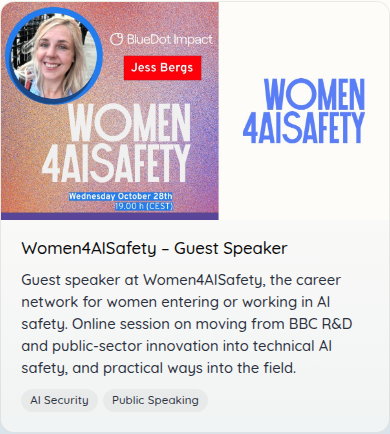
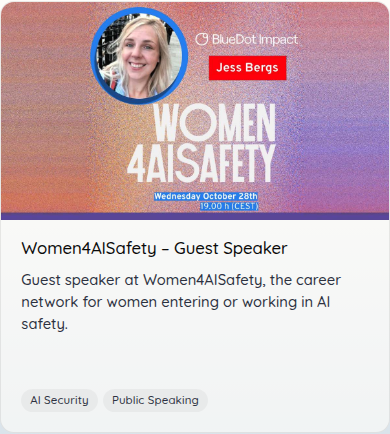
content: extend the graphic's background across the Women4AISafety tile
Replaces the wordmark-on-cream split: the event graphic is centred and its speckled gradient and purple strip are continued sideways to fill 16:9, so the W4AIS wordmark appears once.

diff --git a/docs/assets/women4aisafety-tile-candidates/make_tiles.py b/docs/assets/women4aisafety-tile-candidates/make_tiles.py
@@ -3,10 +3,17 @@
 
 usage: uv run --with pillow python -I make_tiles.py <screenshot.png>
 
-The screenshot is the 1142x1432 LinkedIn post; GRAPHIC is the event graphic
-inside it. Every candidate is 1200x675 and capped at 150 KB. The live tile is
-written to public/images/women4aisafety-2026.jpg.
+The screenshot is the 1142x1432 LinkedIn post; GRAPHIC is the square event
+graphic inside it. The tile is 16:9, so the graphic's speckled gradient
+background and purple base strip are extended sideways: each extra pixel is a
+copy of a random pixel from a content-free sliver at the nearest edge of the
+graphic, taken from a nearby row (within JITTER rows, never across the strip
+edge). That keeps the gradient, the speckle and the strip continuous without a
+visible seam, and without the row banding that pure per-column copying gives.
+Every candidate is 1200x675 and capped at 150 KB. The live tile is written to
+public/images/women4aisafety-2026.jpg.
 """
+import random
 import sys
 from pathlib import Path
 
@@ -14,10 +21,11 @@ from PIL import Image
 
 HERE = Path(__file__).resolve().parent
 OUT_W, OUT_H = 1200, 675
-CREAM = (254, 252, 249)  # the card background
 SIZE_CAP = 150_000
-GRAPHIC = (0, 277, 1111, 1390)  # (x0, y0, x1, y1) of the graphic in the screenshot
-LIVE = "A-split-logo-right.jpg"
+GRAPHIC = (0, 277, 1109, 1390)  # (x0, y0, x1, y1) of the graphic in the screenshot (1109+ is page border)
+RIGHT_SLIVER = (1080, 1108)  # content-free columns at the graphic's right edge
+JITTER = 14  # rows either side a sampled pixel may come from
+LIVE = "A-extended-centred.jpg"
 
 
 def save_capped(img, path, cap=SIZE_CAP):
@@ -29,42 +37,75 @@ def save_capped(img, path, cap=SIZE_CAP):
     print(f"{path.name}: {path.stat().st_size // 1000} KB at quality {q}")
 
 
-def fit(img, box_w, box_h):
-    r = min(box_w / img.width, box_h / img.height)
-    return img.resize((round(img.width * r), round(img.height * r)), Image.LANCZOS)
+def luminance(p):
+    return (p[0] * 299 + p[1] * 587 + p[2] * 114) // 1000
 
 
-def canvas():
-    return Image.new("RGB", (OUT_W, OUT_H), CREAM)
+def ring_left_edge(graphic, y0=0, y1=600, run=6):
+    """Leftmost x of the portrait ring (a run of saturated blue) in rows y0..y1."""
+    px = graphic.load()
+    best = graphic.width
+    for y in range(y0, y1):
+        n = 0
+        for x in range(0, 80):
+            r, g, b = px[x, y]
+            n = n + 1 if (b > 150 and r < 100 and b > g + 30) else 0
+            if n >= run:
+                best = min(best, x - run + 1)
+                break
+    return best
 
 
-def split(graphic, logo, logo_left=False):
-    """The square graphic on one side, the W4AIS wordmark on cream on the other."""
-    g = fit(graphic, OUT_W, OUT_H)
-    c = canvas()
-    c.paste(g, (OUT_W - g.width if logo_left else 0, 0))
-    panel_x0 = 0 if logo_left else g.width
-    panel_w = OUT_W - g.width
-    l = fit(logo, int(panel_w * 0.72), int(OUT_H * 0.5))
-    c.paste(l, (panel_x0 + (panel_w - l.width) // 2, (OUT_H - l.height) // 2), l)
-    return c
+def strip_top(graphic, max_rows=80, tol=12):
+    """First row of the solid purple strip at the bottom (rows above it are speckled)."""
+    px = graphic.load()
+    w, h = graphic.size
+    for y in range(h - 1, h - max_rows, -1):
+        lums = [luminance(px[x, y]) for x in range(0, w, 7)]
+        if max(lums) - min(lums) > tol * 4:
+            return y + 1
+    return h - max_rows
 
 
-def pillarbox(graphic):
-    g = fit(graphic, OUT_W, OUT_H)
-    c = canvas()
-    c.paste(g, ((OUT_W - g.width) // 2, 0))
-    return c
+def extend(graphic, sliver, width, rng, strip_y):
+    """A `width`-wide strip of pixels sampled from the sliver's columns and nearby rows."""
+    src = graphic.load()
+    h = graphic.height
+    out = Image.new("RGB", (width, h))
+    dst = out.load()
+    x0, x1 = sliver
+    for y in range(h):
+        lo, hi = (0, strip_y - 1) if y < strip_y else (strip_y, h - 1)
+        for x in range(width):
+            sy = min(max(y + rng.randint(-JITTER, JITTER), lo), hi)
+            dst[x, y] = src[rng.randrange(x0, x1), sy]
+    return out
+
+
+def extended(graphic, left_w, right_w, left_sliver, rng, strip_y):
+    """The graphic with its background continued `left_w` / `right_w` columns sideways."""
+    c = Image.new("RGB", (graphic.width + left_w + right_w, graphic.height))
+    if left_w:
+        c.paste(extend(graphic, left_sliver, left_w, rng, strip_y), (0, 0))
+    c.paste(graphic, (left_w, 0))
+    if right_w:
+        c.paste(extend(graphic, RIGHT_SLIVER, right_w, rng, strip_y), (left_w + graphic.width, 0))
+    return c.resize((OUT_W, OUT_H), Image.LANCZOS)
 
 
 def main():
     shot = Image.open(sys.argv[1]).convert("RGB")
     graphic = shot.crop(GRAPHIC)
-    logo = Image.open(HERE / "w4ais_logo.png").convert("RGBA")
+    rng = random.Random(4)
+    total_w = round(graphic.height * OUT_W / OUT_H)
+    extra = total_w - graphic.width
+    ring_x = ring_left_edge(graphic)
+    left_sliver = (0, max(4, min(ring_x - 4, 28)))
+    strip_y = strip_top(graphic)
+    print(f"ring left edge x={ring_x}; left sliver {left_sliver}; strip from row {strip_y}; extension {extra} px")
     out = {
-        "A-split-logo-right.jpg": split(graphic, logo),
-        "B-split-logo-left.jpg": split(graphic, logo, logo_left=True),
-        "C-pillarbox.jpg": pillarbox(graphic),
+        "A-extended-centred.jpg": extended(graphic, extra // 2, extra - extra // 2, left_sliver, rng, strip_y),
+        "B-extended-left.jpg": extended(graphic, 0, extra, left_sliver, rng, strip_y),
     }
     for name, img in out.items():
         save_capped(img, HERE / name)

diff --git a/docs/assets/women4aisafety-tile-candidates/README.md b/docs/assets/women4aisafety-tile-candidates/README.md
@@ -2,19 +2,18 @@
 
 The live tile (`public/images/women4aisafety-2026.jpg`) uses variant **A**: the
 event graphic from the Women4AISafety LinkedIn post (28 October 2026 online
-session) on the left, the blue W4AIS wordmark on the cream card background
-(`#fefcf9`) on the right. Same logo-on-cream treatment as the Successif and
-Lateral tiles.
+session), centred, with its speckled gradient background and purple base strip
+extended on both sides to fill 16:9.
 
-The source graphic is square, so a plain 16:9 crop loses either the portrait or
-the wordmark (the portrait ring overlaps the top of the wordmark, so there is no
-clean wordmark-only window); the split keeps both.
+The source graphic is square. The extension copies random content-free columns
+from the nearest edge of the graphic, so the gradient, the speckle and the strip
+continue without a seam. Earlier variants that put the W4AIS wordmark on a cream
+panel beside the graphic were dropped: the wordmark appeared twice.
 
 ## The candidates (all 1200x675, capped at 150 KB)
 
-- `A-split-logo-right.jpg` — **live tile.** Graphic left, wordmark on cream right
-- `B-split-logo-left.jpg` — as A, mirrored
-- `C-pillarbox.jpg` — the whole graphic centred on cream, no wordmark
+- `A-extended-centred.jpg` — **live tile.** Graphic centred, background extended both sides
+- `B-extended-left.jpg` — graphic flush left, background extended to the right only
 
 ## Regenerating
 
@@ -22,6 +21,6 @@ clean wordmark-only window); the split keeps both.
 uv run --with pillow python -I make_tiles.py <screenshot-of-the-linkedin-post.png>
 ```
 
-`GRAPHIC` in the script is the graphic's box inside the 1142x1432 screenshot.
-`w4ais_logo.png` is the colour wordmark from women4aisafety.com. Nothing in this
-folder is served by the site.
+`GRAPHIC` in the script is the graphic's box inside the 1142x1432 screenshot;
+`RIGHT_SLIVER` and the measured left sliver are the content-free edge columns
+the extension samples from. Nothing in this folder is served by the site.
